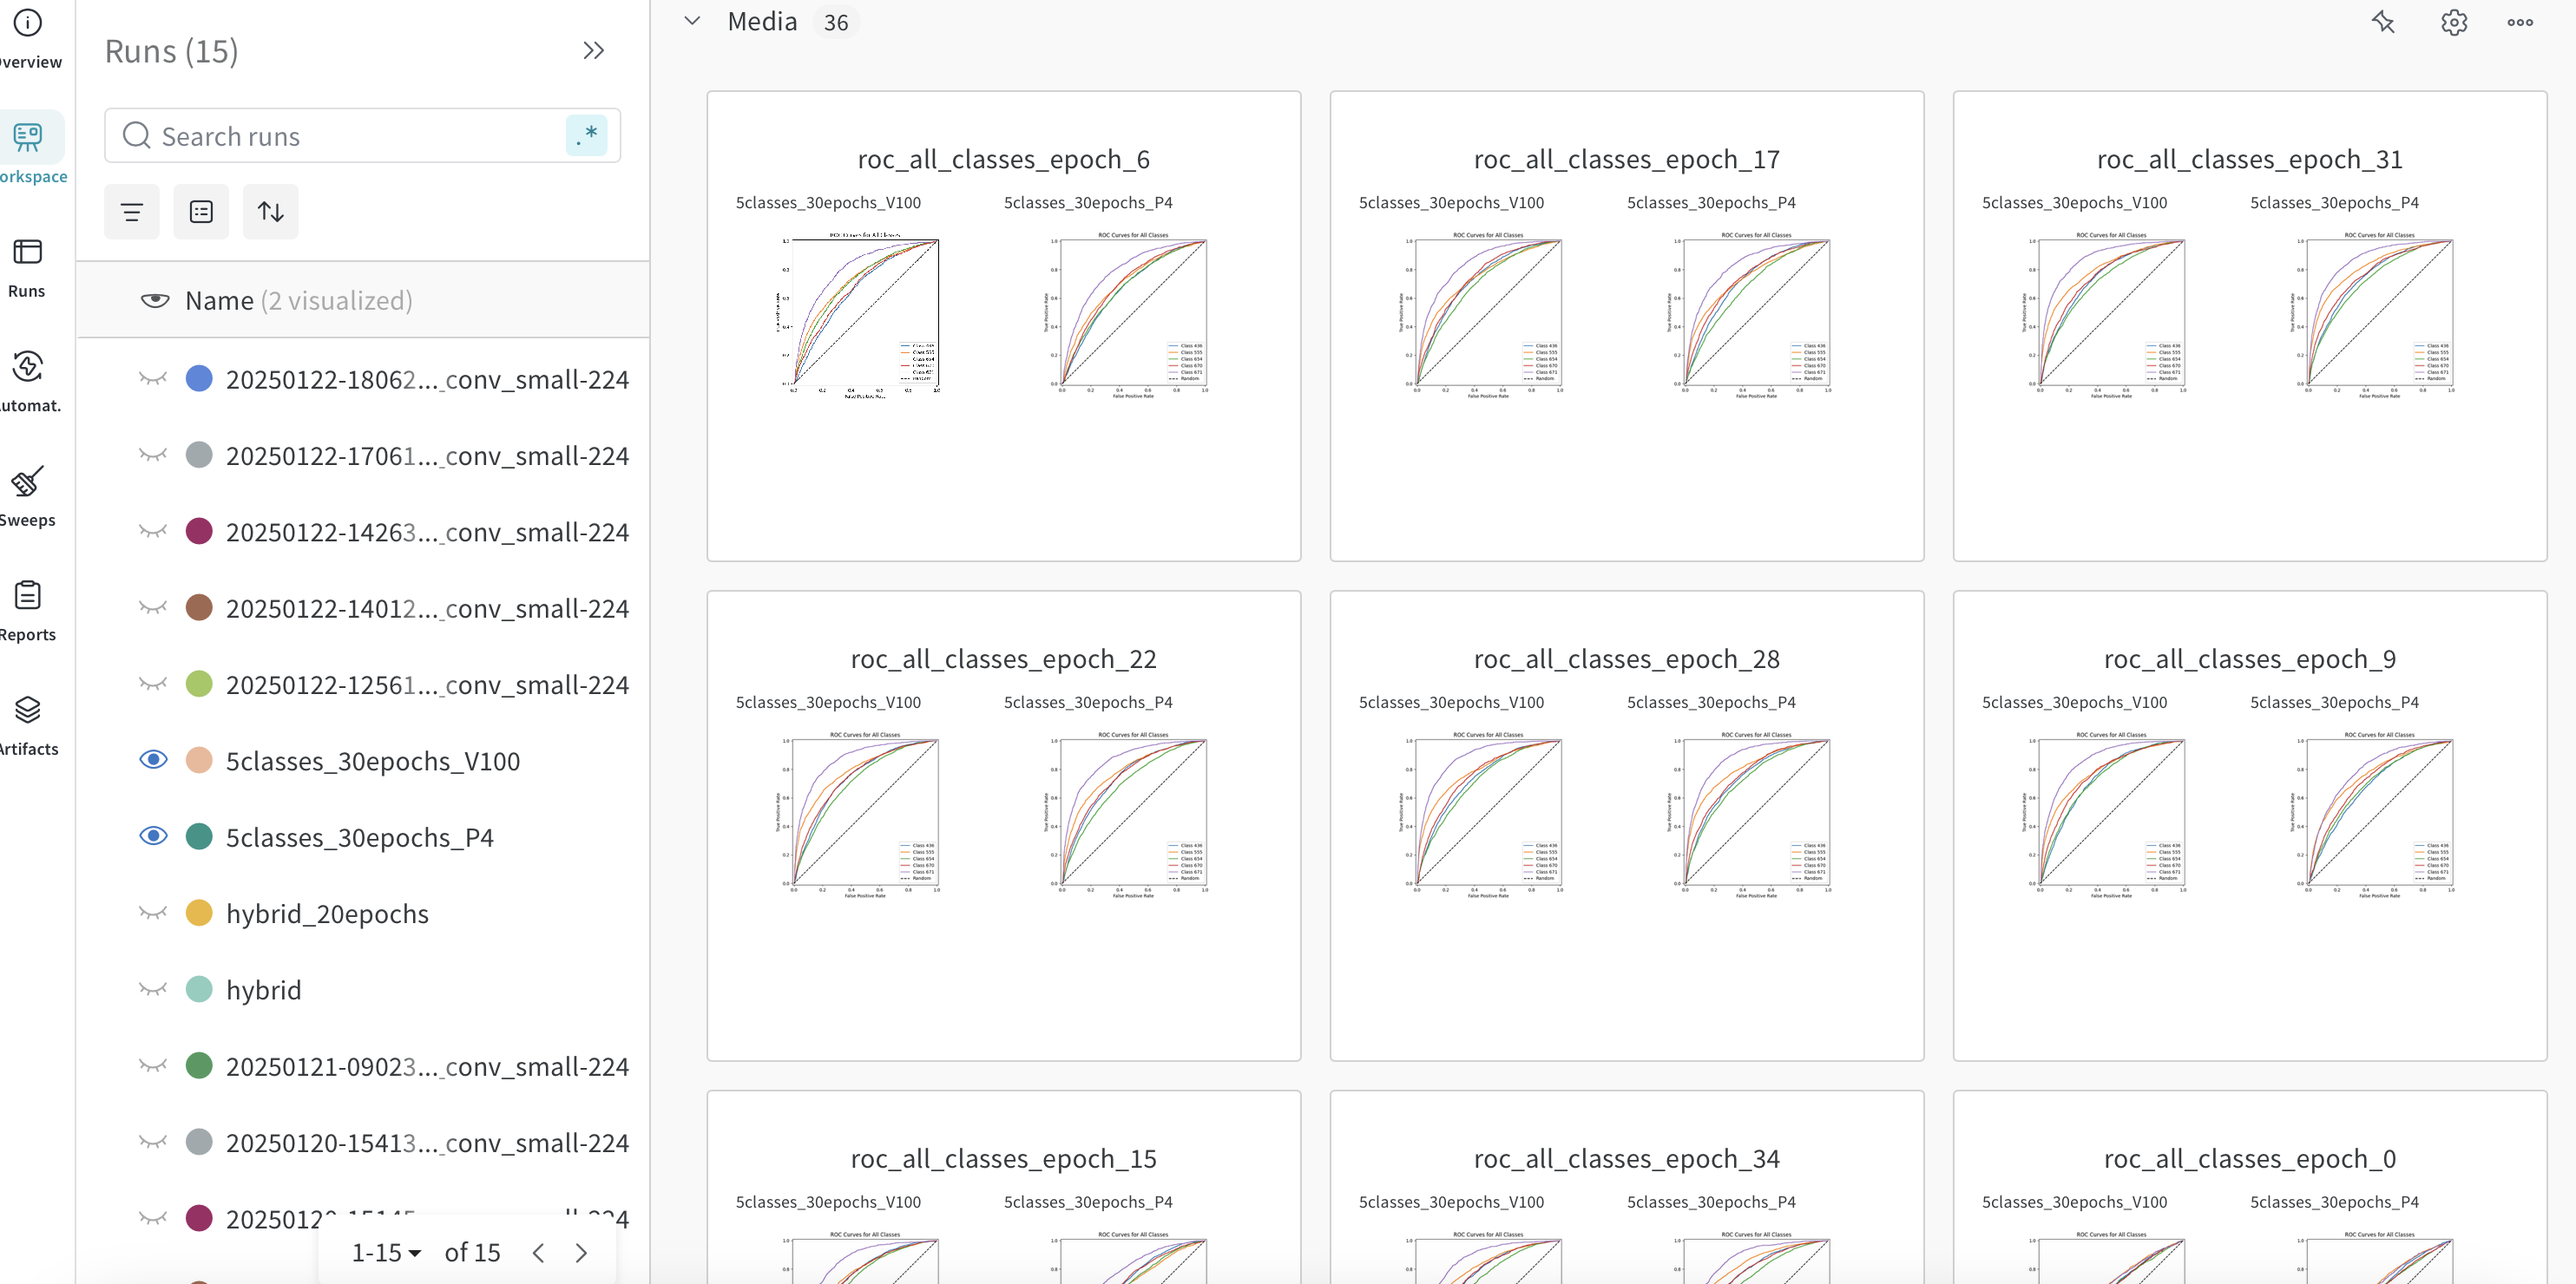
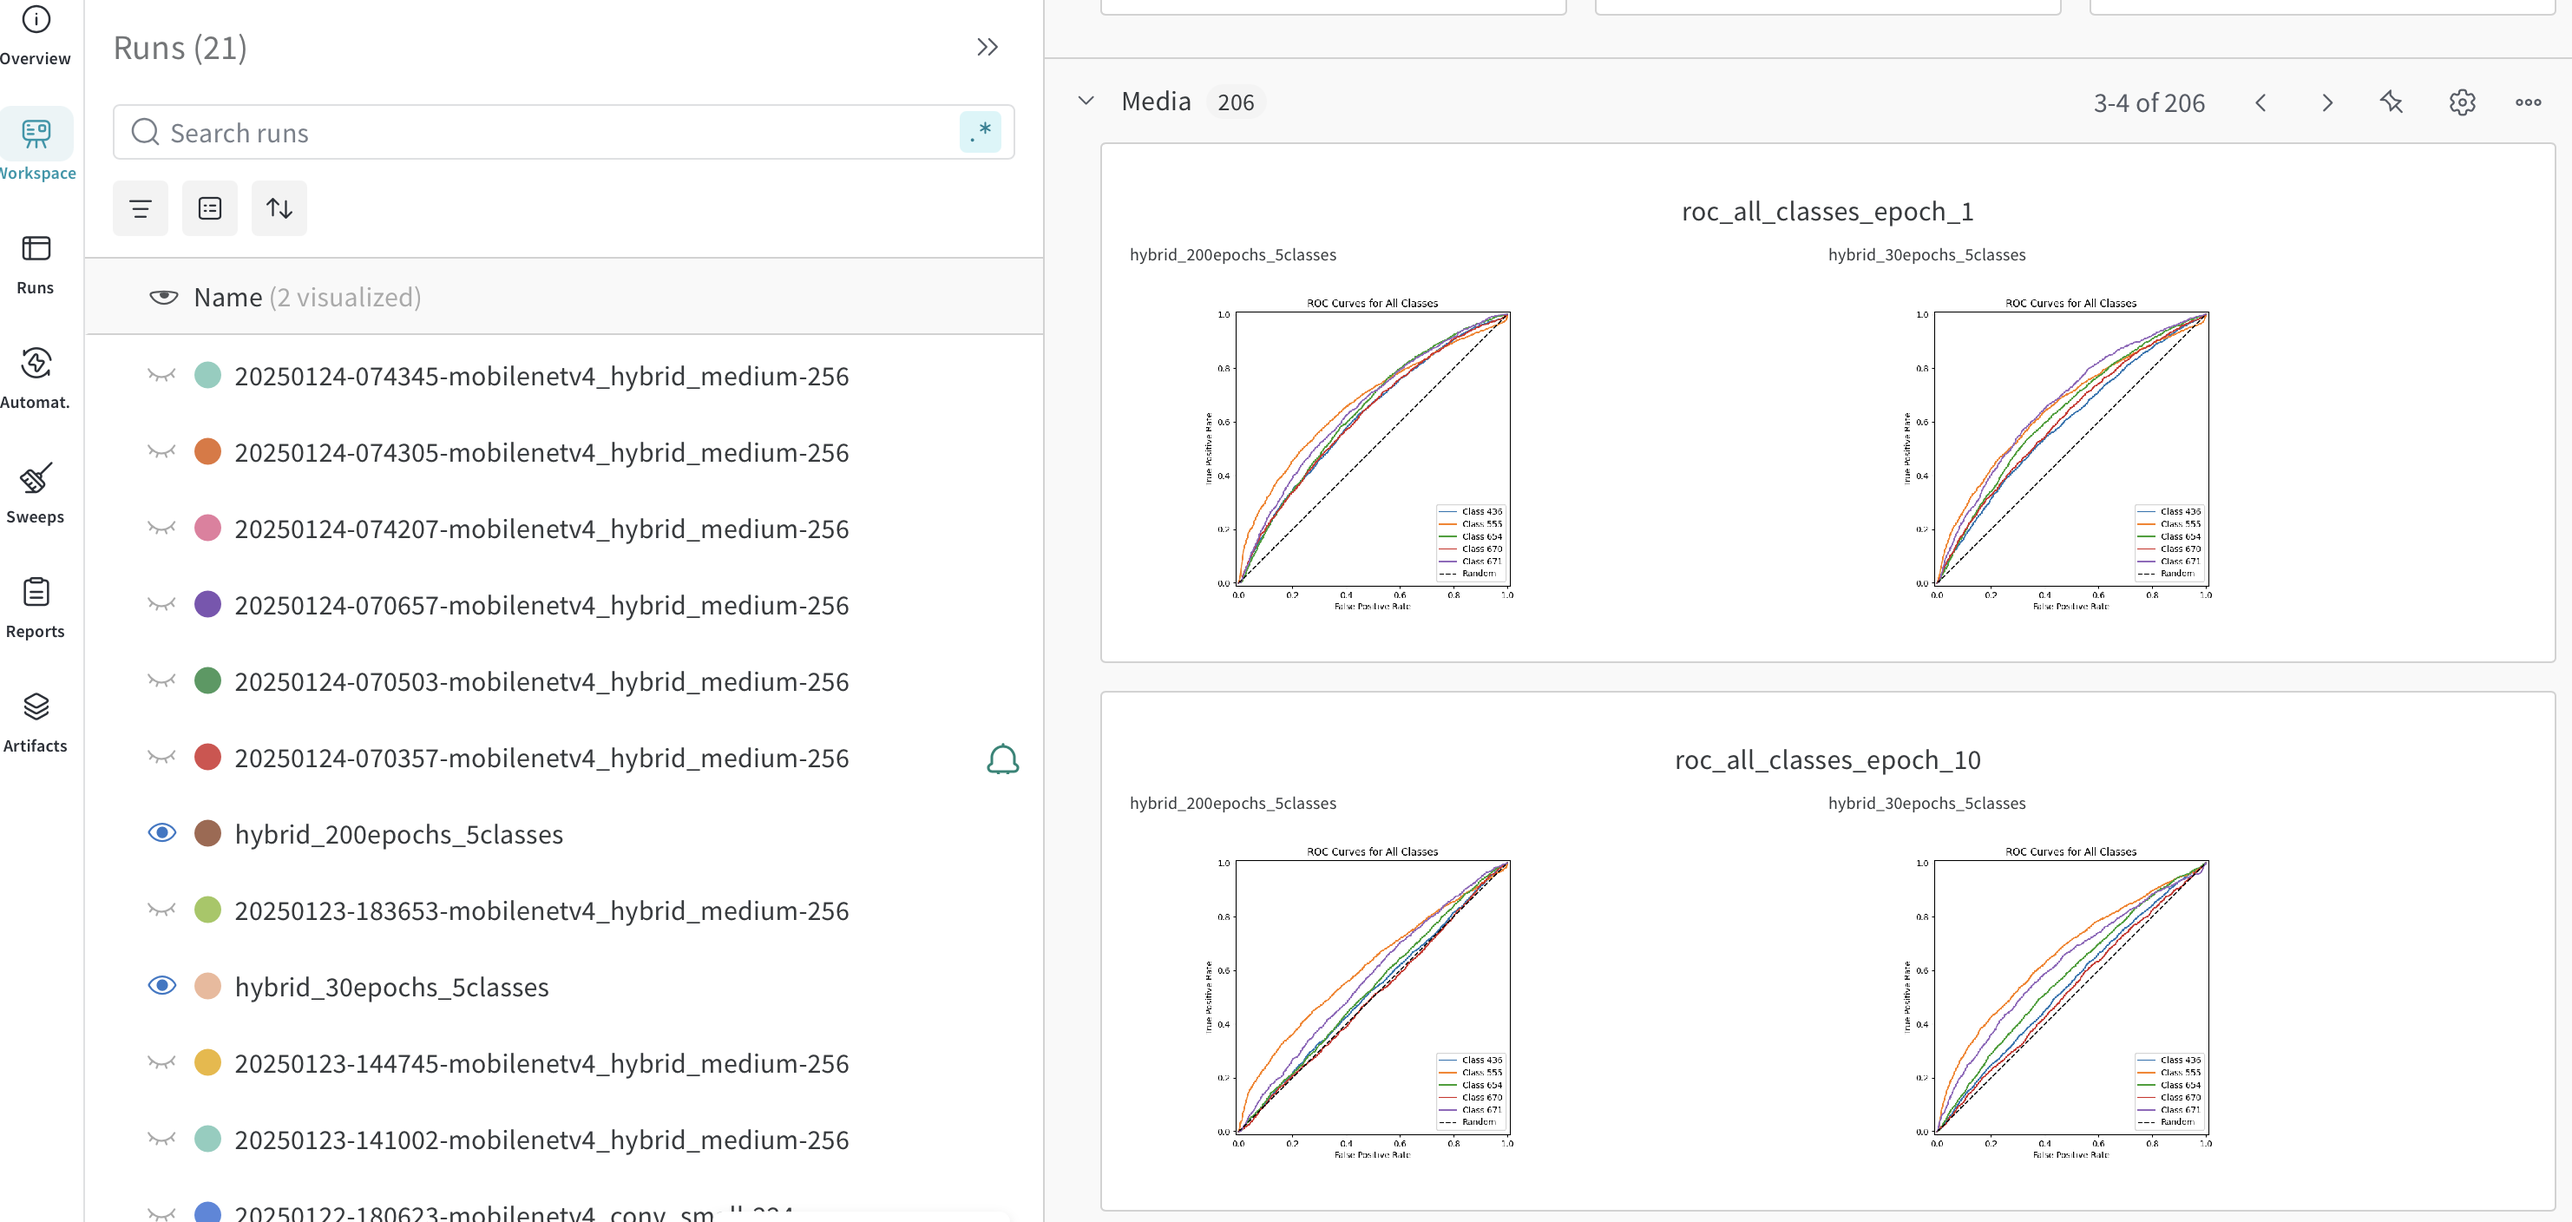
Update question 3 and 14

diff --git a/reports/README.md b/reports/README.md
@@ -145,7 +145,7 @@ s233489, jonnil, s091969, s233480
 
 The third-party framework [TIMM (PyTorch Image Models) from Huggingface](https://github.com/huggingface/pytorch-image-models) was used in our project. We used functionality from the package to access a wide variety of models and the ImageNet-1k dataset. By doing this, we could quickly experiment with different architectures, sizes and finetune a image classification model for our specific task.
 
-As a starting point, we used a pre-made `train.py` script from the TIMM codebase, which provides a very high level of parameter customization either through command-line arguments or via a configuration YAML-file specifying the desired parameters. This script was modified with additional functionality related to our MLOps pipeline. As an example, an option to automatically detect the number of classes in the input data was added, such that a change in the input data would automatically be handled in the model construction. 
+As a starting point, we used a pre-made `train.py` script from the TIMM codebase, which provides a very high level of parameter customization either through command-line arguments or via a configuration YAML-file specifying the desired parameters. This script was modified with additional functionality related to our MLOps pipeline. As an example, an option to automatically detect the number of classes in the input data was added, such that a change in the input data would automatically be handled in the model construction. Furthermore, we extended the script's logging functionality by adding additional logging of information to Weights & Biases, both related to the model configuration parameters and training metrics.
 
 ## Coding environment
 
@@ -399,7 +399,7 @@ For all our experiments, we tracked several metrics related to the model trainin
   
 * **ROC (Receiver Operating Characteristic) Curves**: ROC curves show how well the model is able to classify positive and negative examples. We opted to log a ROC curve for each training epoch that shows the per-class performance. This can help to understand the model's performance across different classes and identifying any potential issues.
 
-Below we have shown two screenshots of experiments in W&B. The two experiments are two training runs done with different GPUs (P4 and V100). The first screenshot shows some loss and accuracy curves, while the second shows the ROC curves for a subset of epochs.
+Below we have shown two screenshots of experiments in W&B. The two experiments are two training runs done with different number of epochs (30 vs 200). The first screenshot shows some loss and accuracy curves along with other metrics logged during training (e.g. learning rate), while the second shows the ROC curves for a subset of epochs.
 
 ![wandb figure 1](figures/wandb_1.png)
 ![wandb figure 2](figures/wandb_2.png)
